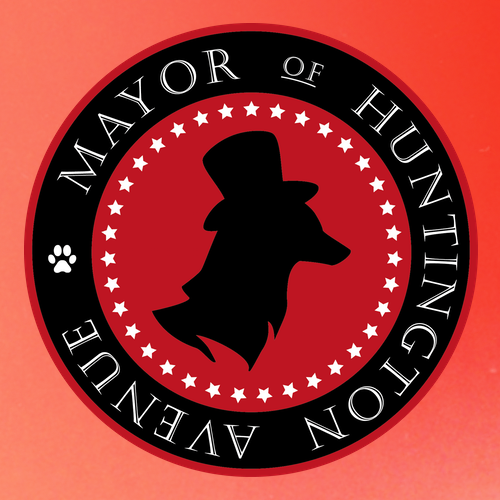
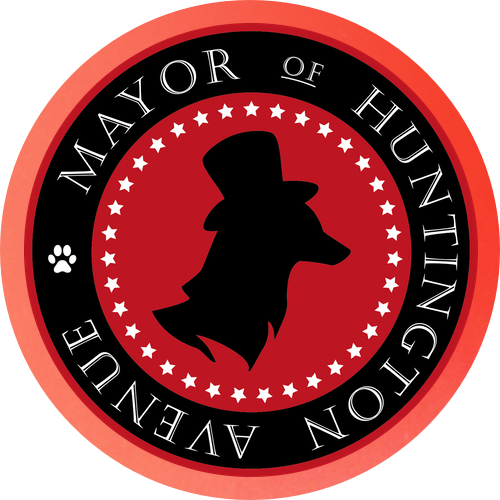
changed tiles, made them circles, removed legend, added some box shadows

diff --git a/style.css b/style.css
@@ -1,14 +1,13 @@
 html {
-  box-sizing: border-box;
+	box-sizing: border-box;
 }
 *, *:before, *:after {
-  box-sizing: inherit;
-  	margin: 0;
+	box-sizing: inherit;
+	margin: 0;
 }
 
 body {
-	background-image: url("images/paper_fibers.png");
-	background-repeat: repeat;
+	background: #FCFBE3;
 	font-family: 'Josefin Slab', serif;
 }
 
@@ -22,7 +21,8 @@ div {
 }
 
 .navigation-top {
-	background: #50514F;
+	background: #2E86AB;
+	box-shadow: 0px 0.25px 4px;
 
 }
 
@@ -30,7 +30,7 @@ div {
 	width: 60%;
 	height: 4rem;
 	padding: 0 2rem;
-	background: #50514F;
+	background: #2E86AB;
 }
 
 .title-name,
@@ -62,6 +62,7 @@ div {
 .about-me {
 	margin-top: 4rem;
 	margin-bottom: 4rem;
+	background: #FCFBE3;
 }
 
 .about-me .content {
@@ -74,6 +75,7 @@ div {
 	font-weight: bold;
 	text-align: center;
 	margin-bottom: 3rem;
+	color: #2E86AB;;
 }
 
 .about-copy {
@@ -84,13 +86,22 @@ div {
 	padding: 0 1rem 0 1rem;
 	text-align: center;
 	line-height: 120%;
+	color: #2E86AB;
 }
 
-.legend {
+.project-header {
 	margin: 2em auto 0 auto;
 	padding-left: none;
 	text-align: center;
-	background: #50514F;
+	background: #BEE3DB;
+	box-shadow: 0px 0.25px 4px;
+}
+
+.project-header-text {
+	font-size: 2.5em;
+	color: white;
+	padding: 0.5em 0;
+
 }
 
 .legend-items {
@@ -100,7 +111,6 @@ div {
 	font-size: 1.75rem;
 	font-weight: 600;
 	letter-spacing: 2px;
-	border-bottom: 4px #50514F solid;
 }
 
 .legend-items > li {
@@ -111,7 +121,7 @@ div {
 	color: #F25F5C;
 }
 
-.graphic-design {
+.design {
 	color: #FFE066;
 }
 
@@ -130,11 +140,11 @@ div {
 .projects {
 	padding: 1.5em;
 	overflow: auto;
-	background-color: white;
+	background-color: #2E86AB;
 }
 
 .projects .content {
-	width: 60%;
+	width: 80%;
 	text-align: center;
 }
 
@@ -142,8 +152,11 @@ div {
 .project-tile {
 	width: 15rem;
 	height: 15rem;
-	margin: 1rem;
+	margin: 2em;
 	display: inline-block;
+	border: 2px solid white;
+	border-radius: 100%;
+	padding: 6px;
 	/* why does this work? 
 	A: Align the baseline of the element with the baseline of the parent element. This is default*/
 }
@@ -151,20 +164,30 @@ div {
 .tile-image {
 	width: 100%;
 	position: relative;
-	border-top: 4px #F25F5C solid;
 }
 
 .tile-caption {
-	color: #50514F;
-	margin-top: 0;
+	color: white;
+	margin-top: 1rem;
 	text-align: center;
 	vertical-align: bottom;
+	font-family: 'Montserrat', sans-serif;
+	font-weight: 100;
+	font-size: 0.8em;
 	box-sizing: border-box;
+}
+
+.project-category {
+	color: white;
+	font-family: 'Montserrat', sans-serif;
+	font-size: 0.8em;
+	font-style: italic;
+	margin-top: 0.25rem;
 }
 
 
 .contact {
-	background: white;
+	background: #BEE3DB;
 }
 
 .contact .content {
@@ -173,9 +196,24 @@ div {
 	height: 4rem;
 }
 
+@media screen and (max-width: 1334px) {
+	.legend-items > li {
+		font-size: 1.5rem;
+	}
+}
+
+@media screen and (max-width: 1187px) {
+	.legend-items > li {
+		font-size: 1.25rem;
+	}
+}
+
 @media screen and (max-width: 1107px) {
 	.links > li {
 		margin-left: 1rem;
+	}
+	.legend-items > li {
+		font-size: 1rem;
 	}
 }
 
@@ -194,6 +232,7 @@ div {
 	}
 }
 
+
 @media screen and (max-width: 792px) {
 	.navigation-top .content {
 		text-align: center;
@@ -210,34 +249,48 @@ div {
 		display: none;
 	}
 
-.about-copy {
+	.about-copy {
 		font-size: 1.5em;
 	}
 
-.about-me .content {
-	width: 90%;
+	.about-me .content {
+		width: 90%;
 	}
 
-.projects .content {
-	width: 95%;
-	margin: 0 auto;
-	padding: 0;
-	display: inline;
+	.legend .content .legend-items > li {
+		display: block;
+	}
+
+	.legend-items > li {
+		font-size: 1.5rem;
+	}
+
+	.interpunct {
+		display: none;
+	}
+
+	.projects .content {
+		width: 95%;
+		margin: 0 auto;
+		padding: 0;
+		display: inline;
+	}
+
+	.projects .project-tile {
+		margin: 0 auto;
+		display: block;
+		margin-bottom: 3rem;
+	}
+
+	.project-tiles {
+		width: 15rem;
+		height: 15rem;
+		margin: 0 auto;
+	}
+
 }
 
-.projects .tile-image {
-	margin: 0 auto;
-	width: 20rem;
-	height: 20rem;
-}
 
-.project-tiles {
-	width: 15rem;
-	height: 15rem;
-	margin: 0 auto;
-}
-
-}
 
 
 

diff --git a/index.html b/index.html
@@ -25,19 +25,9 @@
 				<p class="about-copy">My name is Cloud. I'm a Marketing and Interactive Media combined major at Northeastern University and an aspiring UI/UX designer.</p>
 			</div>
 		</section>
-		<section class="legend">
+		<section class="project-header">
 			<div class="content">
-				<div class="legend">
-					<ul class="legend-items">
-						<li class="events">Events</li>
-						<li class="interpunct">&#8729</li>
-						<li class="graphic-design">Graphic Design</li>
-						<li class="interpunct">&#8729</li>
-						<li class="product-mocks">Product Mocks</li>
-						<li class="interpunct">&#8729</li>
-						<li class="photography">Photography</li>
-					</ul>
-				</div>
+					<h2 class="project-header-text">Projects</h2>
 			</div>
 		</section>
 		<section class="projects">
@@ -45,32 +35,38 @@
 				<div class="project-tile">
 					<img class="tile-image" src="images/moha_tile.png" alt="Mayor of Huntington Ave">
 					<p class="tile-caption">Mayor of Huntington Avenue</p>
+					<p class="project-category">EVENT + BRANDING</p>
 				</div>
 				<div class="project-tile">
 					<img class="tile-image" src="images/homecoming_tile.png" alt="Northeastern Homecoming">
 					<p class="tile-caption">Northeastern Homecoming 2015</p>
+					<p class="project-category">GRAPHIC DESIGN</p>
 				</div>
 				<div class="project-tile">
 					<img class="tile-image" src="images/graphic_tile.png" alt="Graphics">
 					<p class="tile-caption">Graphics</p>
+					<p class="project-category">GRAPHIC DESIGN</p>
 				</div>
 				<div class="project-tile">
 					<img class="tile-image" src="images/photography_tile.png" alt="Western Europe 2015">
 					<p class="tile-caption">Western Europe 2015</p>
+					<p class="project-category">PHOTOGRAPHY</p>
 				</div>
 				<div class="project-tile">
-					<img class="tile-image" src="images/homecoming_tile.png" alt="Northeastern Homecoming">
-					<p class="tile-caption">Northeastern Homecoming 2015</p>
+					<img class="tile-image" src="images/placeholder_tile.png" alt="Northeastern Homecoming">
+					<p class="tile-caption">Placeholder</p>
+					<p class="project-category">TBD</p>
 				</div>
 				<div class="project-tile">
-					<img class="tile-image" src="images/homecoming_tile.png" alt="Northeastern Homecoming">
-					<p class="tile-caption">Northeastern Homecoming 2015</p>
+					<img class="tile-image" src="images/placeholder_tile.png" alt="Northeastern Homecoming">
+					<p class="tile-caption">Placeholder</p>
+					<p class="project-category">TBD</p>
 				</div>
 			</div>
 		</section>
 		<footer class="contact">
 			<div class="content">
-				<hr>
+				
 			</div>
 		</footer>
 	</body>
